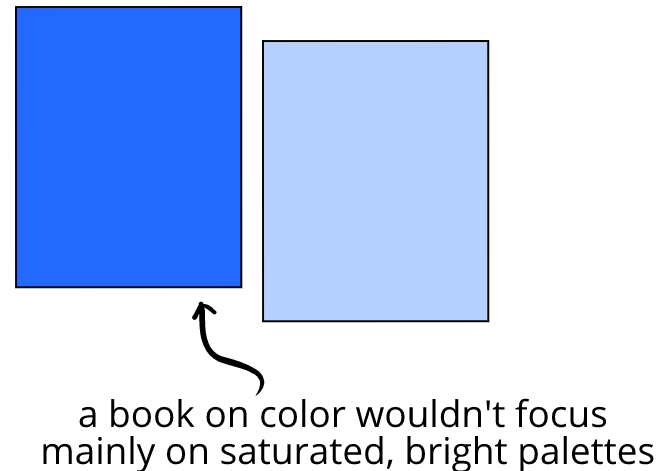
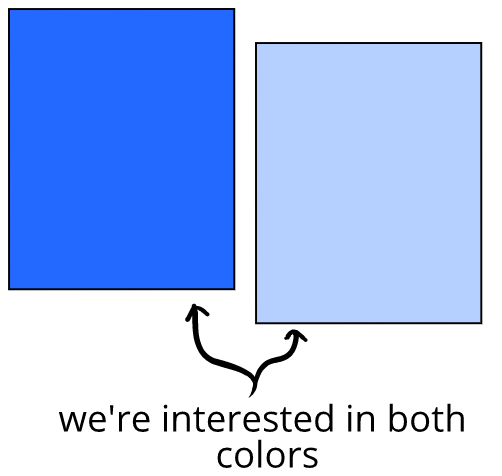
e
e

diff --git a/3chapter-intensity-of-humor/3-7-sizes-of-mistakes-and-oks-help-us-answer-questions-ii.html b/3chapter-intensity-of-humor/3-7-sizes-of-mistakes-and-oks-help-us-answer-questions-ii.html
@@ -106,123 +106,91 @@
      
 <div class="content-example">
        
-<p>In this book, we'll be as interested in <term>low-intensity</term> humor as in <em>high-intensity</em> humor.</p>
+<p>In this book, we'll be as interested in learning about <term>low-intensity</term> humor as <em>high-intensity</em> humor. We can understand this by an analogy to a book about color.</p>
 
-<p>We can think about this by imagining a book about color and color theory. It wouldn't make sense for that book to be only interested in bright, vivid colors!</p>
+<p>A book that only focused on bright colors would just be a book about bright colors&mdash;not about colors generally. We'd probably first prefer grounding in using and understanding all colors:</p>
 
     <img
     src="../images/3c-images-sizes/3-7-sizes-of-mistakes-and-oks-help-us-answer-questions-ii/3-7-2-deeper-saturation.png"
-    Title=""
-    Alt=""
-    style="max-width: 20rem;"
+    Title="All shades of blue are interesting"
+    Alt="This comparison shows two different hues of blue, and notes that a book on color would be interested in both of them."
+    style="max-width: 15rem;"
     > 
 
-<p>That would be a book about bright colors, not about colors generally. Instead, a broad book on colors would help us learn about all  saturation and brightness&mdash;how it all works together.</p> 
-
-<p>Instead of seeing a pale blue as a "bad" form of vivid blue, we'd want to understand:</p> 
+<p>Is a pale blue a "bad" form of blue that's less important? Not really&mdash;instead, we'd want to be able to think through color questions like:</p> 
 
 <ul class="close-list">
-   <li>what makes blues different from each other</li>
+  
+   <li>what makes blues different from each other? How do we describe them?</li>
    
-   <li>when pale blue is used harmoniously or not</li>
+   <li>when is a pale blue might be preferable to a sharper blue, and why?</li>
+
+        
+    <li>what makes colors work harmoniously together or not?</li>
     
-    <li>what makes colors work together or not</li>
-    
-    <li>why someone chose the colors they did</li>
+    <li>why someone might chose the colors they did, and what does that mean about them or their goals?</li>
     </ul>
 
-<p class="and-so-on">And so on</p>
+<p class="and-so-on">(and so on)</p>
 
-<p>In our lives, we tend to think of the sky as a bright blue. But when we actually look at it, it's a pale and thin blue:</p> 
+
+<p>Often, animated movies will use a very vivid blue for things like the sky. But when we actually take time to look at the sky in real life, it's usually a pale and thin blue:</p> 
 
     <img
     src="../images/3c-images-sizes/3-7-sizes-of-mistakes-and-oks-help-us-answer-questions-ii/3-7-3-deeper-sky.png"
-    Title=""
-    Alt=""
+    Title="The sky is pale"
+    Alt="This picture of the sky highlights the pale, washed out blue of the sky. An annotation says that focusing on colors not often in nature would make it harder to understand the world around us."
     style="max-width: 20rem;"
     > 
 
-<p>When we look at a field, there are a lot of browns, pale greens, and pale blues:</p> 
+<p>So understanding pale blues ends up helping us understand the world around us&mdash;even more so than if we only focused on vivid blues.</p> 
+    
+<p>Moreover, colors never exist on their own. They relate to each other in a way that creates the actual big picture we experience.</p> 
+    
+    <p>We may look at a picture of a field that <sem-weak>feels</sem-weak> vivid to be in&mdash;but that vivid experience is actually built from a lot of muted colors&mdash;including brown greens, pale blues, and scattered yellow:</p> 
 
     <img
     src="../images/3c-images-sizes/3-7-sizes-of-mistakes-and-oks-help-us-answer-questions-ii/3-7-4-deeper-sky-combination.jpg"
-    Title=""
-    Alt=""
+    Title="Meadow"
+    Alt="This picture shows a meadow with a manor in the background. The meadow has a pale sky, lots of brownish green, and some yellow flowers."
     style="max-width: 20rem;"
     > 
 
-<p>Of course, when we're actually <sem-weak>there</sem-weak>, this is part of what makes up a deeply vivid experience. A "realistic" color palette wouldn't make for a particularly vibrant animated movie&mdash;but that doesn't mean we stop trying to understand how colors work in the wider world around us, including where we find them evocative and where we don't.</p> 
+<p>This is sometimes not what we expect. At first, we might assume that very saturated colors would lead to more vivid experiences, every time. But when we stop to think about it, we know that's not really true&mdash;there's more going on. 
 
+<div class="consider">
+   <p class="consider">Consider:</p>
+    
+    <p class="considertext">A book on color ideally would help us make sense of what we actually find evocative and not, when, and why that is.</p> 
+    
+    <p class="considertext">That might be why a supersaturated blue sky in an animated movie is enjoyable, <sem-weak>as well as</sem-weak> why a pale blue sky in our lives can be exceedingly beautiful.</p>
+    </div>
 
+<p>There's something similar about humor. Even though we tend to think of humor as a long belly laugh, when we actually start looking for humor in our lives, much of our humor is felt at a low-intensity.</p> 
 
-<p>Humor is often like this&mdash;where we tend to think of humor as a belly laugh. When we actually start looking for it in our lives, humor is often low-intensity. When taken in the experience of living, this is often experienced as a wonderful feeling.</p> 
+<p>Humor, like all emotions, is something that forms a big picture through combination of everything. The picture of the meadow above has just a bit of yellow in it, which makes a big difference&mdash;it's the same with humor, where just a bit makes a big difference.</p>  
 
-<p>In a cheerful animated movie, the sky may literally be a bright blue, and its goal may be to make us feel high-intensity humor. But what about when not watching an animated movie?</p> 
-
-<div class="consider">Consider
-      
-     <p class="considertext"> We often take on the goals of the creators of a comedy when thinking about humor. If an animated movie wants us to laugh, and we don't, the lack of humor is "bad."</p>
-      
-      <p class="considertext">We can step back from that goal to be a broader observer. Why didn't we feel humor? What might have changed to make us feel humor? What does this say about the creators that they thought this would make us feel humor? And so on.</p>
-      
-      <p class="considertext">This lets us have our hand in many pockets, and prevents us from having a straightforward, universal assessment of "good" or "bad" for different intensities of humor.</p></div>
-
-<p>When learning about color, we'd also want to learn about how they interact with each other. It would be an incomplete book that thought there was "blue" "orange" "red" and that was that. In fact, it would be missing the most interesting and important part of color in our lives!</p> 
-
-<p>We can look at these blue panels and know that even the small presence of orange makes them different. If we ordered all-blue panels and a blue panel with an orange dot arrived&mdash;we'd consider them different products:</p>
+<p>This is obvious with color. The panels below aren't the same&mdash;just a bit of orange changes it into something different, even though both panels have a lot of blue in them:</p> 
   
   <img
     src="../images/3c-images-sizes/3-7-sizes-of-mistakes-and-oks-help-us-answer-questions-ii/3-7-5-deeper-dots-of-orange.png"
-    Title=""
-    Alt=""
+    Title="Little bits of color matter"
+    Alt="This comparison shows an all-blue box and an all-blue box with a dot of orange in it. An annotation says these two boxes aren't the same."
     style="max-width: 20rem;"
     > 
   
-<p>Let's say that orange dot is humor, and the blue is anger. We also know that feeling only anger is very different than feeling anger with a touch of humor in it. In this case, the low-intensity humor in the emotional state is profoundly important:</p> 
+<p>It's the same for emotions. An emotional state that's just angry and an emotional state that's just mostly angry but with a bit of humor is not the same thing. In this case, the low-intensity humor in the emotional state is profoundly important:</p> 
 
 <img
     src="../images/3c-images-sizes/3-7-sizes-of-mistakes-and-oks-help-us-answer-questions-ii/3-7-6-deeper-dots-of-humor.png"
-    Title=""
-    Alt=""
+    Title="Little bits of emotion matter"
+    Alt="This comparison shows two emotional state boxes, one with all-anger, and the other all-anger with a bit of humor in it. An annotation says these two boxes are not the same."
     style="max-width: 20rem;"
     > 
 
-<p>Throughout this book, we'll be looking at humor at all intensities, and thinking about how it fits into life in all its different ways, and how we can observe and think about all this.</p>     
+<p>Throughout this book, we'll be looking at humor at all intensities, and thinking about how it fits into life in all its different ways. That includes considering both high- and low-intensities of humor.</p>     
 
-              
-<p>In many ways, our overall skill with humor is defined by our understanding of low-intensity humor. This is just like any skill, like cooking&mdash;we can all make sense of ketchup, but the next step is to have greater awareness and control over smaller elements of tasting and cooking.</p>
-
-<p>This helps us not only understand why something turned out the way it did&mdash;it also allows us to build our own dishes.</p>
-                      
-It's similar for aesthetics.                                                         
-<p>We sometimes think <term>high</term>-intensity humor matters <sem>more</sem> than <em>low</em>-intensity humor&mdash;like that a belly laugh is inherently better and more interesting that a small laugh. Sometimes we even think we don't need to think about low-intensity humor at all.<p>
-
-<p>But we know with a comparison to food that this isn't quite right. If we eat an orange-zest brownie, we wouldn’t say the orange-zest is unimportant just because chocolate is by far the most prominent flavor&mdash;or say that we <sem-weak>only</sem-weak> tasted chocolate. </p>
-
-<p>It's the same for our emotions. We can't ignore low-intensity humor, since that still flavors the entire experience.</p>
-
-<p>Similarly, we know an all-blue panel is different than a similar panel with an orange dot in the middle:</p>
-	
-<img class="img-indent" src="../images/1c-images-emotions/1-6-deeper-look-images/2-6-7-blue.png" title="Comparison of blue boxes" alt="Two blue squares are contrasted, one all-blue and the other all-blue with an orange dot in it."
-
-style="max-width: 14rem;">
-
-<p>If we thought <callback>"well, they're both intensely blue, so they're the same"</callback> or <callback>"well the orange here is small so isn't doing anything"</callback>&mdash;we'll lose track of important nuance. 
-
-
-<p>It's the same for our emotions. It's not the same to be angry compared to being angry with a little dot of humor in it. When we understand what the difference between the two is, we can observe and react with greater skill.</p>
-
-       
-<div class="consider">
-            <p class="consider">Consider:</p>
-            <p class="considertext">With cooking or graphic design, we have the sense that improving in them in part means gaining a greater awareness and understanding of "small amounts." </p>
-                   
-                 <p class="considertext">  It's the same for improving in humor&mdash;improving in part means gaining a greater awareness of low-intensity humor </p>
-        </div>
-        
- 
-<p>In this book, we'll be as inclusive of these low-intensity experiences of humor as we are of high-intensity experiences of humor. We want an understanding of humor that isn't limited to intense humor, but understands <sem>all</sem> intensities of humor.</p>
-
+           
   
    
     </div>

diff --git a/2chapter-defining-humor/2-3-what-do-we-mean-by-evaluated.html b/2chapter-defining-humor/2-3-what-do-we-mean-by-evaluated.html
@@ -157,18 +157,7 @@
        
          </div>
       
-         <p>Last chapter, we had:</p>
-
-<p class="lesson">Humor is an emotion</p>
-
-<p>And this chapter we had:</p>
-
-<p class="lesson">Humor is a mistake that's evaluated as okay</p>
-
-<p>We can combine them together for our current definition of humor:</p>
-
-<p class="lesson">Humor is an emotion that someone feels when they evaluate a mistake as OK</p>   
-
+ 
 
 <div class="box"><p><headline>Absence.</headline> Humor doesn't only happen—humor also <outcome-contrast>doesn't</outcome-contrast> happen. We’ll be learning as much about the humor that <term>doesn’t</term> happen as we do about the humor that <em>does</em>.</p> 
             
@@ -200,7 +189,7 @@
 </div>  
    
 <!--    Button for End of Chapter Summary-->
-<!--
+
         <button type="button" class="collapsible-example">
     
     A deeper look (Modeling)
@@ -209,21 +198,75 @@
      
 <div class="content-example">
         
-    <p>We're putting together a <vocab>model definition</vocab> of humor. A model is something that approximates, characterizes, describes, or predicts outcomes. Models do this by simplifying something more complex&mdash;like how maps work.</p>
+<p>Throughout this book, we'll be building a <vocab>model definition</vocab> of humor piece by piece. For instance, last chapter, we had:</p>
 
-<p>A map you can hold in your hand is a useful approximation of thousands of square miles of a country. But even if a map of a country is <term>useful</term>, that doesn't mean that map is actually the <term>country</term>. Similarly, a model of humor may be <em>useful</em>, but that doesn't mean the model is actually <em>humor</em>&mdash;just a model of it.</p> 
+<p class="lesson">Humor is an emotion</p>
+
+<p>And this chapter we had:</p>
+
+<p class="lesson">Humor is a mistake that's evaluated as okay</p>
+
+<p>We can combine them together for our current model definition of humor:</p>
+
+<p class="lesson">Humor is an emotion that someone feels when they evaluate a mistake as OK</p>   
+
+<p>We'll continue adding and refining to this model as we go through this book. Often, this means that, as we read, something feels unaddressed. We'll probably address it in a later chapter!</p>
+
+        
+    <p>A model is something that approximates, characterizes, describes, or predicts outcomes. Models do this by simplifying something more complex&mdash;a bit like how maps work.</p>
+    
+
+<div class="consider">
+   <p class="consider">Consider:</p>
+    <p class="considertext">A map you can hold in your hand is a useful approximation of thousands of square miles of a country.</p>
+    
+     <p class="considertext"> But even if a map of a country is <term>useful</term>, that doesn't mean that map is actually the <term>country</term>&mdash;it's just a map of it. Similarly, a model of humor may be <em>useful</em>, but that doesn't mean the model is actually <em>humor</em>&mdash;just a model of it.</p>
+     
+    </div>       
+
+
+    <p>A model is good or bad based on our goals.</p> 
+
+<div class="for-instance">
+    <p class="for-instance">For instance:</p>
+     
+    <p class="for-instance-text
+    ">A globe would be bad if our goal was to plan a bike route to the store. On the other hand, a globe would be good if our goal was to quickly see where political borders are.</p>
+</div>
+ 
+   <p>Here, our goal is to learn a model of humor that we can use in our day-to-day lives&mdash;like during a conversation or a bus ride. Our model should spark insight, and be usable to answer questions about humor in ways that seem organized, productive, and satisfying.</p> 
+  
+<p>Some models are very complex and require computing to use&mdash;but our particular model is meant to be used just with a bit of thought.  Our model's final goal is become intuitive, so that it's not really something we have to think about.</p>   
 
        <div class="consider">
      <p class="consider">Consider:</p>
-           <p class="considertext">Sometimes we get so used to models that we start thinking they're actually the thing they're modeling&mdash;which is a bit like confusing a portrait of a person with the person themselves. If we do this, we may even make strange errors, like criticizing that person for not looking like their portrait.</p>
+           <p class="considertext">Sometimes we get so used to models that we start thinking they're actually the thing they're modeling&mdash;which is a bit like confusing a portrait of a person with the person themselves.</p> 
+           
+           <p class="considertext">If we do this, we may even make strange errors, like criticizing a person for not looking like their portrait!</p>
     
       </div>   
             
-<p>Some models are very complex and require computing to use. But our particular model is meant to be used just with a bit of thought. Our final goal is to develop an intuitive use of this model, so it's not really something we have to think about.</p> 
 
+<p>Many people are suspicious of modeling humor, and for good reason&mdash;many previous models of humor have been cruel, degrading, dismissive, incoherent, narrow, oddly focused, subordinate to ulterior motives, and so on.</p>
+    
+<p>We'll revisit this history later in this book. But as this book was started in part because of skepticism to how humor has been modeled, this book can only encourage continuing skepticism on your end.</p>   
+ 
+ 
+
+    <!-- 
+<div class="for-instance">
+         <p class="for-instance">For instance:</p>
+          
+          <p class="for-instance-text">Many of us have heard the model <callback>comedy = tragedy + time</callback>. This model is usually used proverbially, and so is usually "good .</p>
+          
+          <p class="for-instance-text">However, we can see that it's not far away from our current model of mistakes and OKs&mdash;which, as we'll see, have improvements over that other model.</p>
+     </div>
+      -->
+      
+  
 
     </div>
-        -->
+        
     <div class="endofchaptersummary">
     
     <button type="button" class="collapsible">
